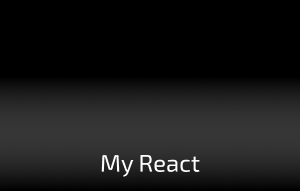
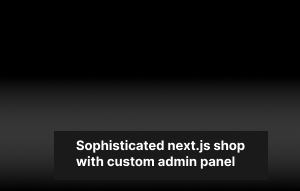
add necessary code comment

Changed region(s): [[0.18, 0.6806, 0.9, 0.9424]]

diff --git a/index.html b/index.html
@@ -203,6 +203,8 @@ current step:
 
  -> Before deployment:
   
+  - Must host this on "Mastle.github.io"
+  - make blog list summary font size bigger on responsive
   - add more distance between the blog title and the blog obdy
   - Add your first blog post
   - Optimize, optimize, optimize! almost no image is optimized, and use Extensions and all the available tools to make sure you're following industry standards and fill the gaps
@@ -216,7 +218,6 @@ current step:
   - A shorter introudction section that precedes "My career in a short retrospect" (Just like Kevin Powell's Hero picture on responsive mode)
   - Add a "privacy policy" or evidence on how formsubmit.co is super safe!
  - must serve all assets from an external server 
- - Add a testimonials section (Ehsan Deldar, Ali Bayazi & Milad Talaee -> Those homies have actually used your services, and they're solid enough to promote/work with)
   (If you're not willing to make use of the community, as small as it may seem, you'll never grow)(don't even need anything but their approval to pull this off)
  - The project section on the homepage could use a color transformation effect on hover!
  - Maybe my fullname on the hero banner is not a good idea since I'll mostly be dealing with international clients

diff --git a/projects.html b/projects.html
@@ -118,7 +118,9 @@
       <div class="container container--visible">
         <div class="project-showcase-wrapper flex" id="project-two">
           <div class="project-sum">
-            <h1>My react</h1>
+            <h1>
+              The most sophisticated shop with Next.js and a custom admin panel
+            </h1>
             <p>
               After a brief experience of working with Laravel and Express.js, I
               became interested in fully figuring out how authentication systems
